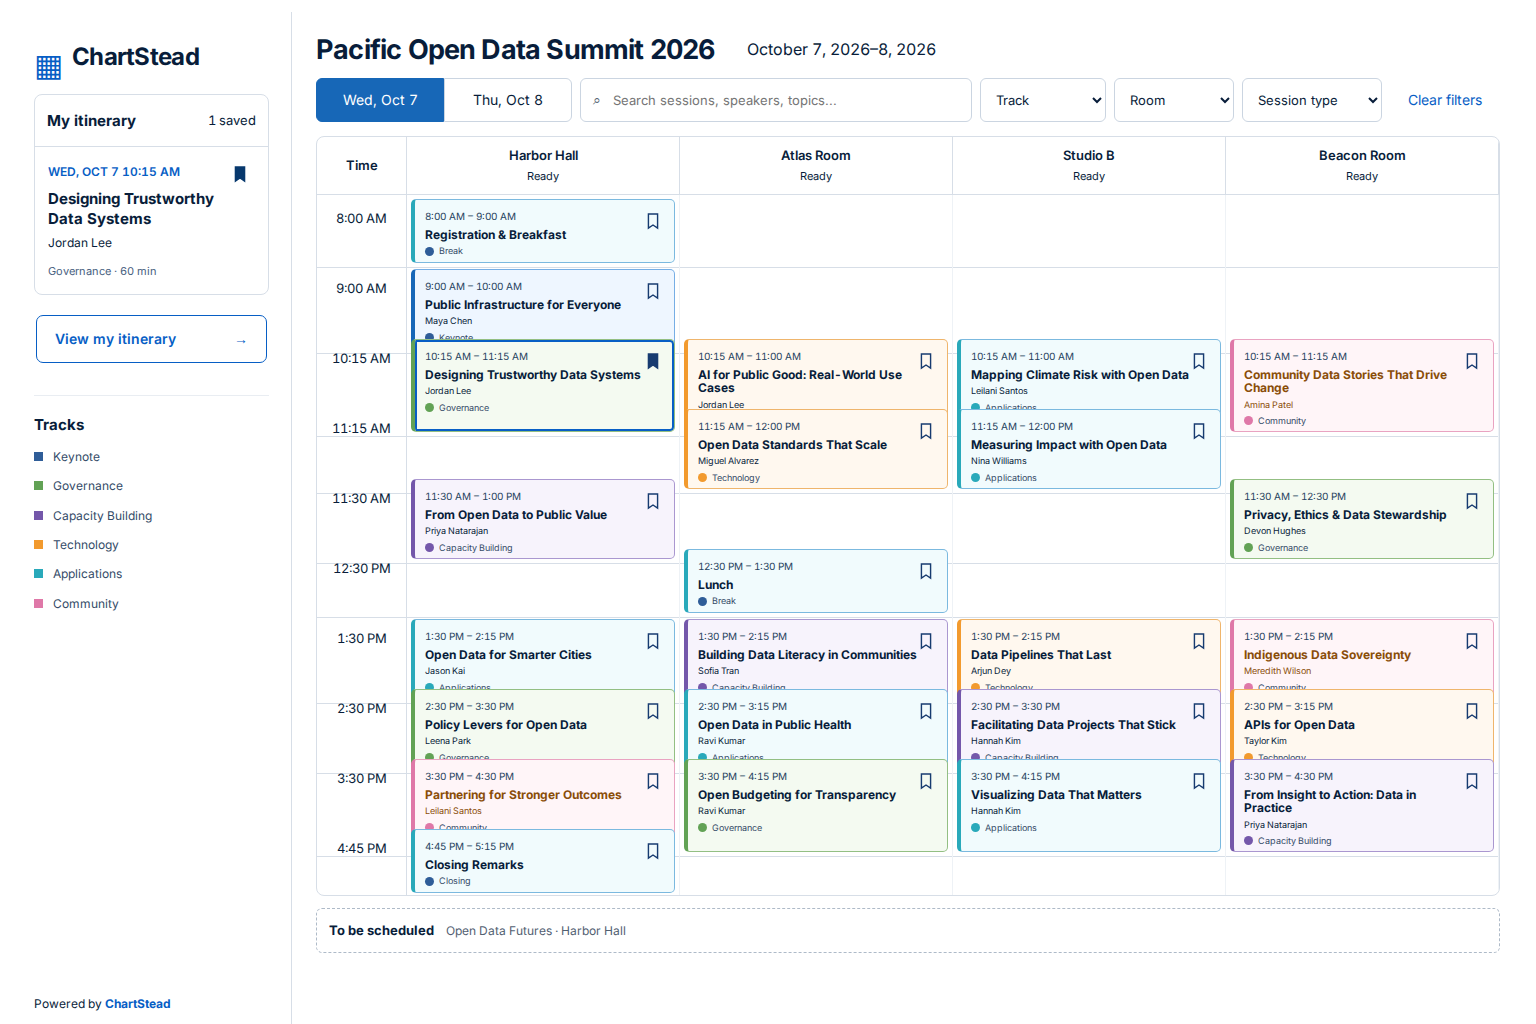
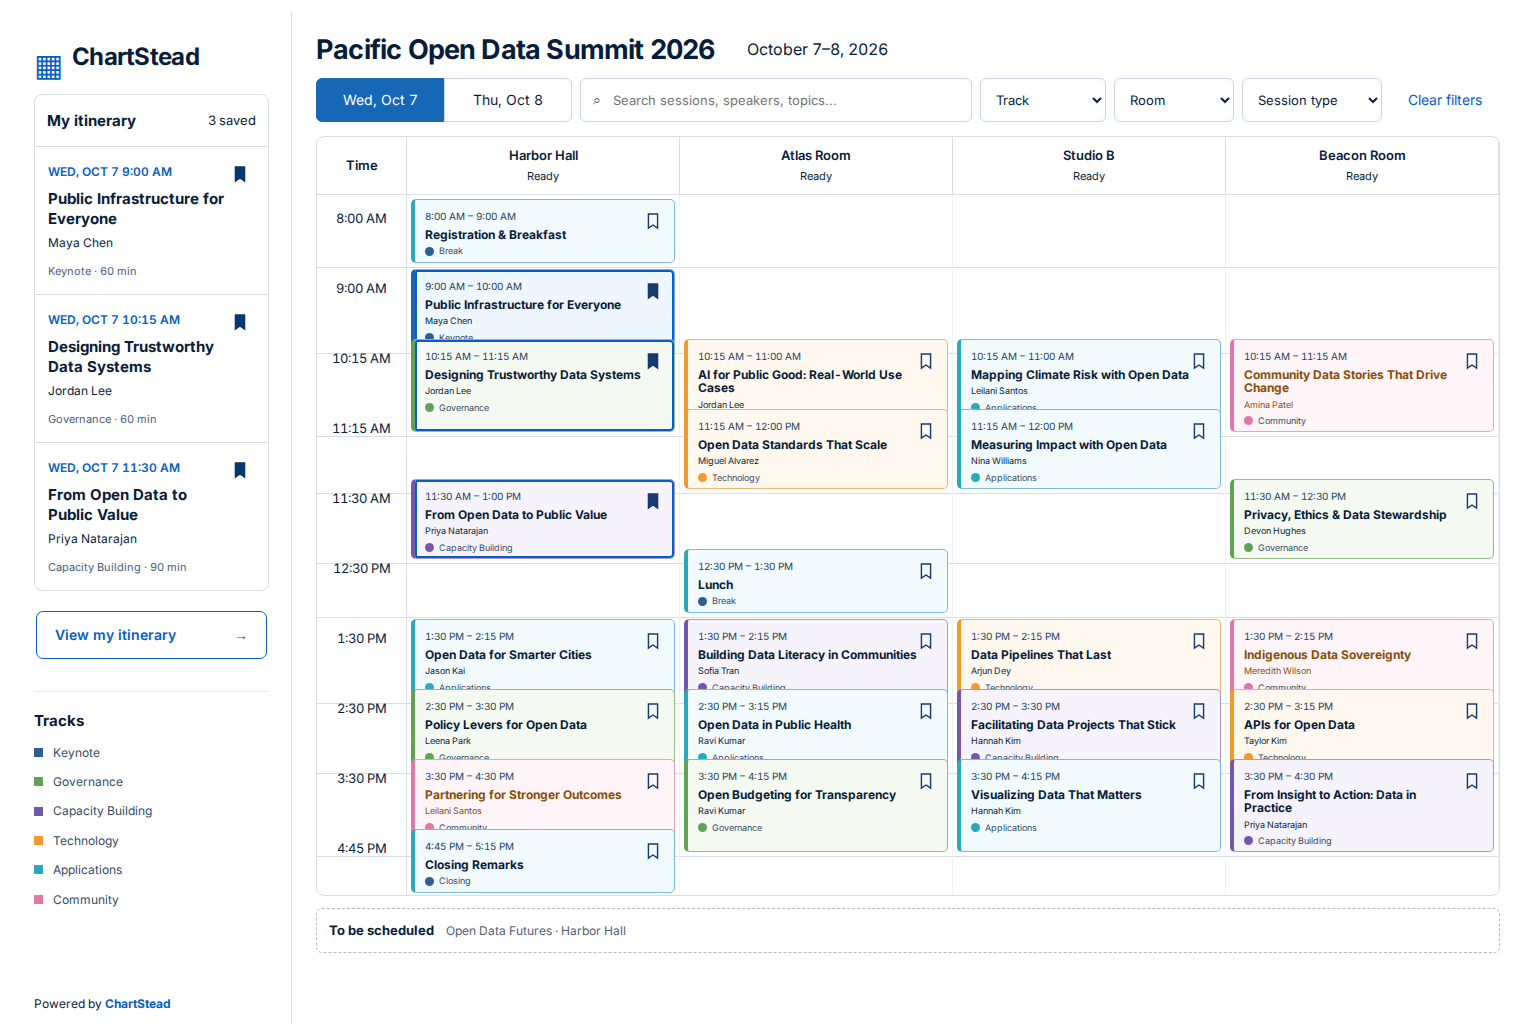
Match itinerary rail density and date range

diff --git a/src/PublicProgramRenderer.tsx b/src/PublicProgramRenderer.tsx
@@ -200,6 +200,7 @@ export function PublicProgramRenderer({
   onFiltersChange,
   selectedSessionId,
   onSelectSession,
+  initialItinerarySessionIds = [],
 }: {
   data: PublicProgramResponse;
   mode?: "page" | "embed";
@@ -210,6 +211,7 @@ export function PublicProgramRenderer({
   onFiltersChange?: (filters: PublicProgramFilters) => void;
   selectedSessionId?: string | null;
   onSelectSession?: (sessionId: string | null) => void;
+  initialItinerarySessionIds?: string[];
 }) {
   const [internalFilters, setInternalFilters] = useState<PublicProgramFilters>({});
   const currentWidget = widget ?? "program";
@@ -362,6 +364,7 @@ export function PublicProgramRenderer({
         days={days}
         formats={formats}
         selectedId={selectedId}
+        initialItinerarySessionIds={initialItinerarySessionIds}
         onSelectSession={selectSession}
         mode={mode}
         theme={theme}
@@ -712,13 +715,17 @@ function BookmarkIcon({ filled = false }: { filled?: boolean }) {
   return <svg aria-hidden="true" viewBox="0 0 24 24"><path d="M6.5 3.5h11v17l-5.5-3.7-5.5 3.7z" fill={filled ? "currentColor" : "none"} stroke="currentColor" strokeWidth="1.7" /></svg>;
 }
 
-function IndexedItinerary({ data, sessions, filters, setFilters, days, formats, selectedId, onSelectSession, mode, theme, accentStyle }: {
+function IndexedItinerary({ data, sessions, filters, setFilters, days, formats, selectedId, initialItinerarySessionIds, onSelectSession, mode, theme, accentStyle }: {
   data: PublicProgramResponse; sessions: PublicProgramSession[]; filters: PublicProgramFilters;
   setFilters: (updater: (current: PublicProgramFilters) => PublicProgramFilters) => void;
   days: string[]; formats: string[]; selectedId: string | null;
+  initialItinerarySessionIds: string[];
   onSelectSession: (sessionId: string | null) => void; mode: "page" | "embed";
   theme: PublicEmbedTheme; accentStyle: Record<string, string>;
 }) {
+  const [savedIds, setSavedIds] = useState<Set<string>>(
+    () => new Set([...initialItinerarySessionIds, ...(selectedId ? [selectedId] : [])]),
+  );
   const scheduled = sessions.filter((session) => session.startsAt && session.day);
   const pending = sessions.filter((session) => !session.startsAt || !session.day);
   const roomIds = data.event.rooms.map((room) => room.id);
@@ -726,24 +733,38 @@ function IndexedItinerary({ data, sessions, filters, setFilters, days, formats, 
   const activeDay = filters.day && filters.day !== "tbd" ? filters.day : days.find((day) => day !== "tbd");
   const clearFilters = () => setFilters(() => ({}));
   const update = (key: keyof PublicProgramFilters, value: string) => setFilters((current) => ({ ...current, [key]: value || undefined }));
+  const toggleSaved = (sessionId: string) => {
+    setSavedIds((current) => {
+      const next = new Set(current);
+      if (next.has(sessionId)) next.delete(sessionId); else next.add(sessionId);
+      return next;
+    });
+    onSelectSession(selectedId === sessionId ? null : sessionId);
+  };
+  const savedSessions = data.sessions.filter((session) => savedIds.has(session.id));
+  const start = new Date(`${data.event.startsOn}T00:00:00Z`);
+  const end = new Date(`${data.event.endsOn}T00:00:00Z`);
+  const dateRange = start.getUTCFullYear() === end.getUTCFullYear() && start.getUTCMonth() === end.getUTCMonth()
+    ? `${new Intl.DateTimeFormat("en-US", { month: "long", timeZone: "UTC" }).format(start)} ${start.getUTCDate()}–${end.getUTCDate()}, ${end.getUTCFullYear()}`
+    : `${new Intl.DateTimeFormat("en-US", { month: "short", day: "numeric", year: "numeric", timeZone: "UTC" }).format(start)} – ${new Intl.DateTimeFormat("en-US", { month: "short", day: "numeric", year: "numeric", timeZone: "UTC" }).format(end)}`;
   return <div className={`program-renderer indexed-itinerary mode-${mode} widget-itinerary theme-${theme}`} style={accentStyle} data-testid="public-program-renderer">
     <aside className="itinerary-rail" aria-label="My itinerary">
       <div className="itinerary-brand"><span className="itinerary-mark" aria-hidden="true">▦</span><strong>ChartStead</strong></div>
       <section className="itinerary-saved">
-        <header><h2>My itinerary</h2><span>{selectedId ? "1 saved" : "0 saved"}</span></header>
-        {selectedId ? sessions.filter((session) => session.id === selectedId).map((session) => <article key={session.id}>
+        <header><h2>My itinerary</h2><span>{savedSessions.length} saved</span></header>
+        {savedSessions.length ? savedSessions.map((session) => <article key={session.id}>
           <span>{session.day ? dayLabel(session.day).toUpperCase() : "TIME TBD"} {formatClock(session.startsAt)}</span>
-          <button type="button" onClick={() => onSelectSession(null)} aria-label={`Remove ${session.title} from itinerary`}><BookmarkIcon filled /></button>
+          <button type="button" onClick={() => toggleSaved(session.id)} aria-label={`Remove ${session.title} from itinerary`}><BookmarkIcon filled /></button>
           <h3>{session.title}</h3><p>{session.speakers.map((speaker) => speaker.name).join(", ") || session.format}</p>
           <small>{session.trackName} · {session.startsAt && session.endsAt ? `${(new Date(session.endsAt).getTime() - new Date(session.startsAt).getTime()) / 60000} min` : "TBD"}</small>
         </article>) : <p className="itinerary-none">Save sessions to build your personal schedule.</p>}
       </section>
-      <button className="itinerary-view" type="button" disabled={!selectedId}>View my itinerary <span>→</span></button>
+      <button className="itinerary-view" type="button" disabled={!savedSessions.length}>View my itinerary <span>→</span></button>
       <section className="itinerary-legend"><h2>Tracks</h2>{data.event.tracks.map((track) => <span key={track.id} className={trackClass(track.id)}><i />{track.name}</span>)}</section>
       <p className="itinerary-powered">Powered by <strong>ChartStead</strong></p>
     </aside>
     <main className="itinerary-main">
-      <header className="itinerary-heading"><h1>{data.event.name}</h1><p>{new Intl.DateTimeFormat("en-US", { month: "long", day: "numeric", year: "numeric", timeZone: "UTC" }).format(new Date(`${data.event.startsOn}T00:00:00Z`))}–{new Date(`${data.event.endsOn}T00:00:00Z`).getUTCDate()}, {new Date(`${data.event.endsOn}T00:00:00Z`).getUTCFullYear()}</p></header>
+      <header className="itinerary-heading"><h1>{data.event.name}</h1><p>{dateRange}</p></header>
       <section className="itinerary-controls" aria-label="Program filters">
         <div className="itinerary-days">{days.filter((day) => day !== "tbd").map((day) => <button key={day} className={activeDay === day ? "is-active" : ""} onClick={() => update("day", day)}>{dayLabel(day)}</button>)}</div>
         <label className="itinerary-search"><span aria-hidden="true">⌕</span><span className="sr-only">Search sessions or speakers</span><input type="search" value={filters.query ?? ""} placeholder="Search sessions, speakers, topics..." onChange={(event) => update("query", event.target.value)} /></label>
@@ -755,8 +776,8 @@ function IndexedItinerary({ data, sessions, filters, setFilters, days, formats, 
       {sessions.length === 0 ? <p className="itinerary-empty" role="status">No sessions match these filters.</p> : <div className="itinerary-grid-wrap">
         <div className="itinerary-grid" role="grid" aria-label="Schedule itinerary" style={{ ["--room-count" as string]: roomIds.length }}>
           <div className="itinerary-corner" role="columnheader">Time</div>{data.event.rooms.map((room) => <div key={room.id} className="itinerary-room" role="columnheader" aria-label={room.name}>{room.name}<small>{room.readiness === "ready" ? "Ready" : "Pending"}</small></div>)}
-          {times.map((time) => <div className="itinerary-time-row" role="row" key={time}><time>{formatClock(`2026-10-07T${time}:00.000Z`)}</time>{roomIds.map((roomId) => { const items = scheduled.filter((session) => session.startsAt!.slice(11, 16) === time && session.roomId === roomId); return <div className="itinerary-cell" role="gridcell" key={roomId}>{items.map((session) => <article key={session.id} className={`itinerary-card ${trackClass(session.trackId)} ${selectedId === session.id ? "is-saved" : ""}`}>
-            <span>{timeLabel(session)}</span><button type="button" aria-label={selectedId === session.id ? `Remove ${session.title} from itinerary` : `Save ${session.title}`} aria-pressed={selectedId === session.id} onClick={() => onSelectSession(selectedId === session.id ? null : session.id)}><BookmarkIcon filled={selectedId === session.id} /></button>
+          {times.map((time) => <div className="itinerary-time-row" role="row" key={time}><time>{formatClock(`2026-10-07T${time}:00.000Z`)}</time>{roomIds.map((roomId) => { const items = scheduled.filter((session) => session.startsAt!.slice(11, 16) === time && session.roomId === roomId); return <div className="itinerary-cell" role="gridcell" key={roomId}>{items.map((session) => <article key={session.id} className={`itinerary-card ${trackClass(session.trackId)} ${savedIds.has(session.id) ? "is-saved" : ""}`}>
+            <span>{timeLabel(session)}</span><button type="button" aria-label={savedIds.has(session.id) ? `Remove ${session.title} from itinerary` : `Save ${session.title}`} aria-pressed={savedIds.has(session.id)} onClick={() => toggleSaved(session.id)}><BookmarkIcon filled={savedIds.has(session.id)} /></button>
             <h2>{session.title}</h2>{session.speakers.length ? <p>{session.speakers.map((speaker) => speaker.name).join(", ")}</p> : null}<small><i />{session.trackName || session.format}</small>
           </article>)}</div>})}</div>)}
         </div>

diff --git a/src/ItineraryEmbedFixture.tsx b/src/ItineraryEmbedFixture.tsx
@@ -21,4 +21,4 @@ const data:PublicProgramResponse={event:{id:"itinerary-fixture",name:"Pacific Op
   session("outcomes","Partnering for Stronger Outcomes","15:30",60,"harbor","community","Community",2),session("budgeting","Open Budgeting for Transparency","15:30",45,"atlas","governance","Governance",13),session("visualizing","Visualizing Data That Matters","15:30",45,"studio","applications","Applications",14),session("practice","From Insight to Action: Data in Practice","15:30",60,"beacon","capacity","Capacity Building",6),session("closing","Closing Remarks","16:45",30,"harbor","","",undefined,"Closing"),
   {...session("day-two","Open Data Futures","09:00",60,"harbor","keynote","Keynote",0,"Keynote"),day:"2026-10-08",startsAt:null,endsAt:null}
 ]};
-export function ItineraryEmbedFixture(){const [selected,setSelected]=useState<string|null>("trust");return <main className="program-shell mode-embed"><PublicProgramRenderer data={data} mode="embed" widget="itinerary" selectedSessionId={selected} onSelectSession={setSelected} /></main>}
+export function ItineraryEmbedFixture(){const [selected,setSelected]=useState<string|null>("trust");return <main className="program-shell mode-embed"><PublicProgramRenderer data={data} mode="embed" widget="itinerary" selectedSessionId={selected} initialItinerarySessionIds={["keynote","trust","value"]} onSelectSession={setSelected} /></main>}

diff --git a/test/ui/public-program.test.tsx b/test/ui/public-program.test.tsx
@@ -159,13 +159,14 @@ describe("PublicProgramRenderer", () => {
     render(<PublicProgramRenderer data={programResponse()} widget="itinerary" mode="embed" />);
 
     expect(screen.getByRole("grid", { name: "Schedule itinerary" })).toBeInTheDocument();
+    expect(screen.getByText("October 7–8, 2026")).toBeInTheDocument();
     expect(screen.getByRole("columnheader", { name: "Harbor Hall" })).toBeInTheDocument();
     const save = screen.getByRole("button", { name: "Save Opening Keynote" });
     await user.click(save);
     expect(save).toHaveAttribute("aria-pressed", "true");
 
     await user.selectOptions(screen.getByLabelText("Track"), "community");
-    expect(screen.queryByText("Opening Keynote")).not.toBeInTheDocument();
+    expect(within(screen.getByRole("grid", { name: "Schedule itinerary" })).queryByText("Opening Keynote")).not.toBeInTheDocument();
     await user.selectOptions(screen.getByLabelText("Track"), "platform");
     expect(screen.getAllByRole("button", { name: "Remove Opening Keynote from itinerary" })
       .some((button) => button.getAttribute("aria-pressed") === "true")).toBe(true);

diff --git a/docs/qa/competition-45/parity-ledger.md b/docs/qa/competition-45/parity-ledger.md
@@ -18,10 +18,15 @@ Capture command:
 - Mismatches: the final two schedule rows fell below the 1024px capture and card copy was slightly oversized for the target density.
 - Corrections: set deterministic 70px time rows, border-box cards, and compact card typography while preserving 44px interactive controls.
 
-## Iteration 3 — final
+## Iteration 3
+
+- Review found two meaningful mismatches: only one saved session left the upper rail materially under-filled versus the three-card reference, and the event range rendered as the malformed `October 7, 2026–8, 2026`.
+- Corrections: added an initial saved-session set without weakening the existing selected-session callback/filter persistence semantics, populated three deterministic saved cards, and replaced string concatenation with calendar-correct same-month/cross-month range formatting.
+
+## Iteration 4 — final
 
 - Final evidence: `itinerary-final-1536x1024.png`.
-- Vision comparison: no meaningful remaining mismatch in overall Indexed Folio structure, rail/grid alignment, scale, spacing, typography hierarchy, token colors, borders, control placement, selected bookmark state, or program density. Incidental fixture copy and the exact generated-mark raster are non-authoritative under the embed SOT contract; the implementation uses the ChartStead wordmark treatment and public-safe deterministic copy.
+- Vision comparison: the rail now matches the reference's three-card upper density and the heading reads `October 7–8, 2026`. No meaningful remaining mismatch in overall Indexed Folio structure, rail/grid alignment, scale, spacing, typography hierarchy, token colors, borders, control placement, selected bookmark state, or program density. Incidental fixture copy and the exact generated-mark raster are non-authoritative under the embed SOT contract; the implementation uses the ChartStead wordmark treatment and public-safe deterministic copy.
 - State coverage inspected: saved/unsaved, breaks, schedule gaps, overlaps, pending/TBD, empty filter result, disabled itinerary action, focus-visible controls, and narrow reflow.
 
-Iterations: **3**.
+Iterations: **4**.

diff --git a/.scratch/chartstead-competition-build/issues/45-premium-schedule-itinerary-embed.md b/.scratch/chartstead-competition-build/issues/45-premium-schedule-itinerary-embed.md
@@ -29,4 +29,5 @@ None — Competition 09 and Rubric 23 already provide the working public embed f
 
 - 2026-08-14 — Claimed by worker branch `ticket-45-premium-itinerary` in `/home/halla/ChartStead/.worktrees/ticket-45-premium-itinerary`.
 - 2026-08-14 — Created from Tyler’s locked public embed source-of-truth decision. This ticket owns only the Schedule Itinerary renderer and its visual parity loop.
-- 2026-08-14 — Implemented the dedicated Indexed Folio time-by-room renderer and deterministic fixture at `/fixtures/itinerary-embed`. Three 1536×1024 screenshot/Vision iterations are recorded in `docs/qa/competition-45/parity-ledger.md`; final evidence is `docs/qa/competition-45/itinerary-final-1536x1024.png`. Capture: `npx playwright screenshot --viewport-size=1536,1024 --wait-for-timeout=500 http://127.0.0.1:5445/fixtures/itinerary-embed docs/qa/competition-45/itinerary-final-1536x1024.png`. Ticket intentionally remains in-progress for coordinator review.
+- 2026-08-14 — Implemented the dedicated Indexed Folio time-by-room renderer and deterministic fixture at `/fixtures/itinerary-embed`. Four 1536×1024 screenshot/Vision iterations are recorded in `docs/qa/competition-45/parity-ledger.md`; final evidence is `docs/qa/competition-45/itinerary-final-1536x1024.png`. Capture: `npx playwright screenshot --viewport-size=1536,1024 --wait-for-timeout=500 http://127.0.0.1:5445/fixtures/itinerary-embed docs/qa/competition-45/itinerary-final-1536x1024.png`. Ticket intentionally remains in-progress for coordinator review.
+- 2026-08-14 — Fourth comparison corrected review gaps: the deterministic rail now contains three saved sessions at reference density and the heading uses the calendar-correct `October 7–8, 2026` range. Final screenshot and ledger were replaced with the reviewed result.
